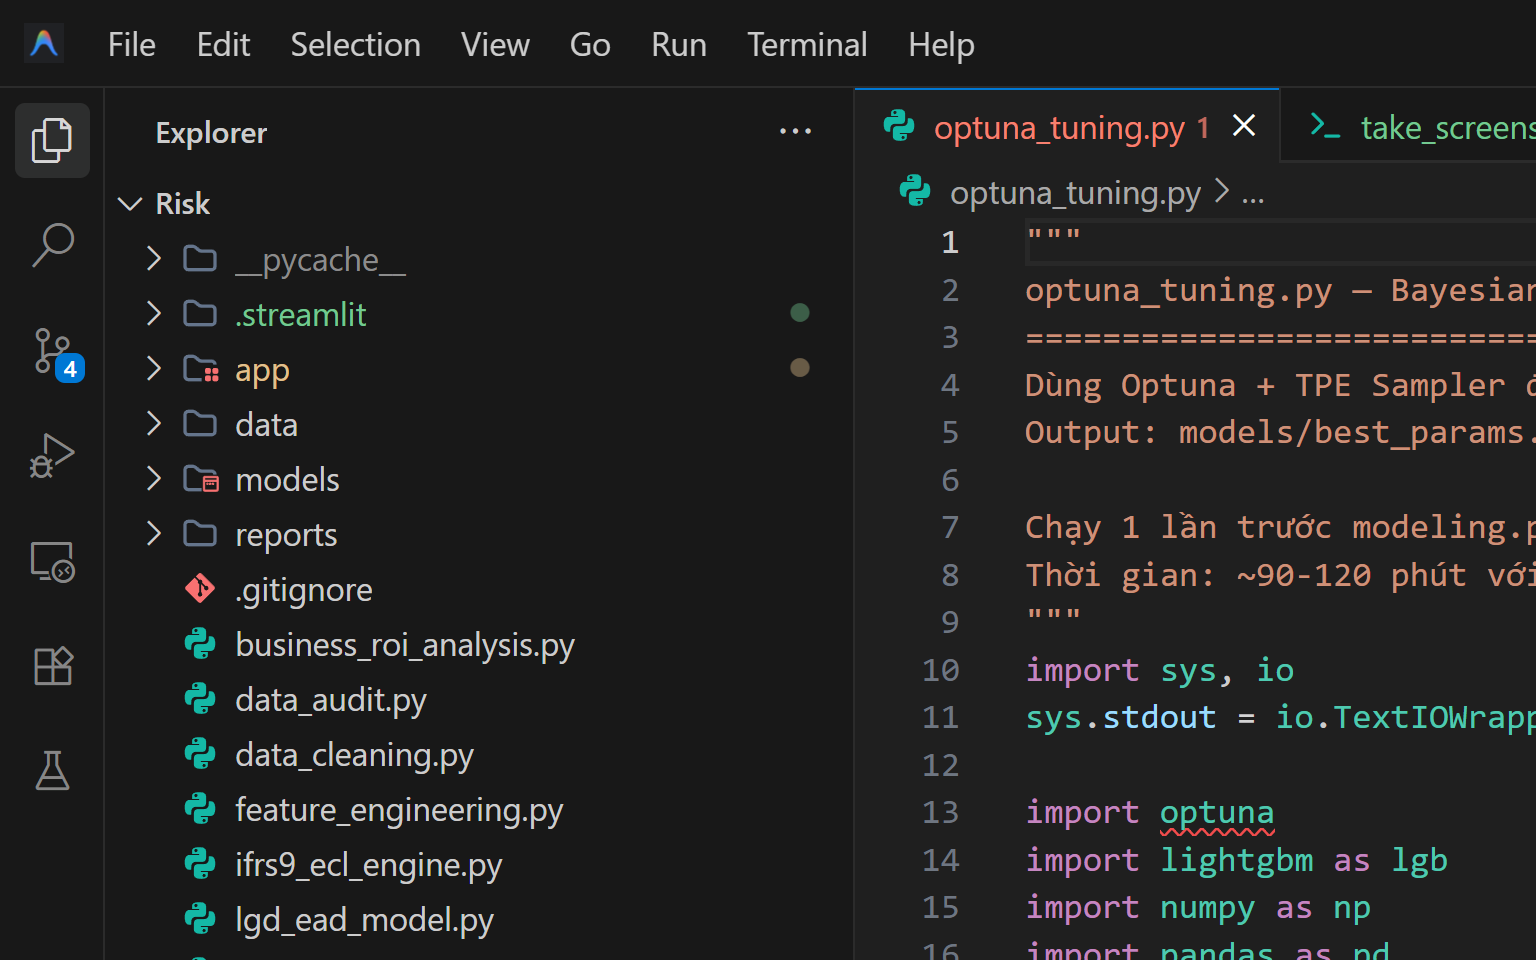
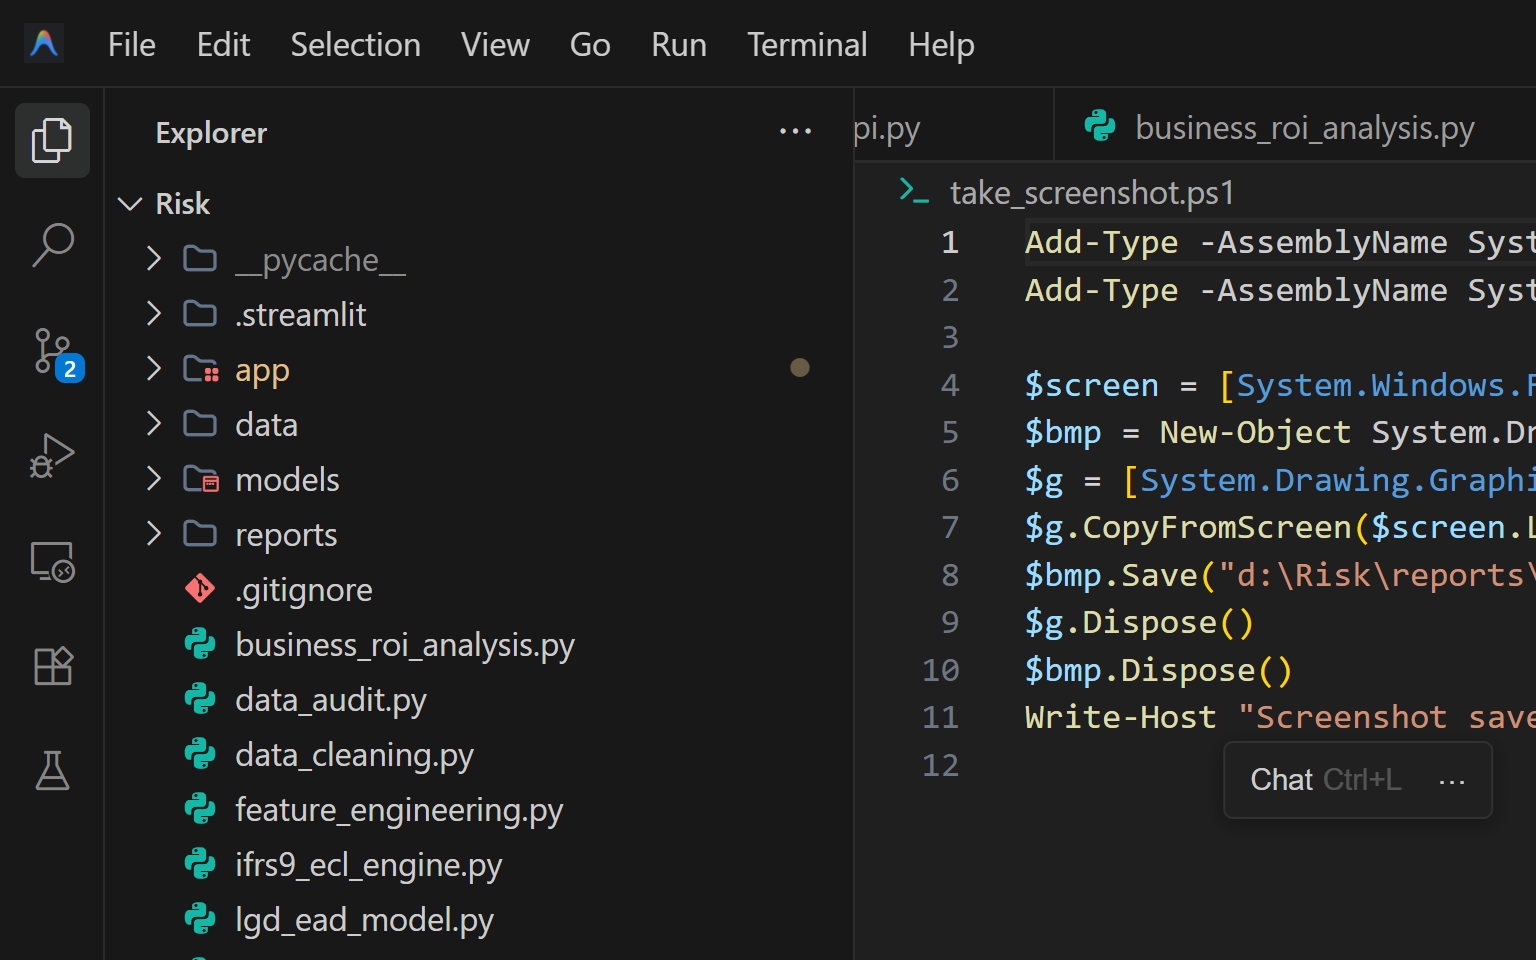
Fix dashboard layout (KPI above filters) and update screenshot

diff --git a/app/streamlit_app.py b/app/streamlit_app.py
@@ -352,10 +352,9 @@ high_risk_ecl_all = df[df['RISK_TIER'] == 'High']['ECL'].sum()
 coverage_all  = ecl_total_all / loan_total_all
 
 # ═══════════════════════════════════════════════════════════════════
-# HEADER ROW PLACEHOLDER — will be rendered after filters
+# HEADER ROW PLACEHOLDER
 # ═══════════════════════════════════════════════════════════════════
-# (header rendered below, after fdf is available)
-
+header_container = st.container()
 
 # ═══════════════════════════════════════════════════════════════════
 # FILTERS
@@ -428,9 +427,9 @@ def delta_badge(val, ref, fmt='.1%', higher_is_bad=True):
     return f'<span style="font-size:10px;color:{color};margin-left:5px">{arrow} {abs(d):{fmt}} vs All</span>'
 
 # ═══════════════════════════════════════════════════════════════════
-# HEADER ROW (rendered here after fdf is ready)
+# HEADER ROW (rendered into placeholder at the top)
 # ═══════════════════════════════════════════════════════════════════
-h0, h1, h2, h3, h4, h5 = st.columns([1.1, 1, 1.1, 1, 0.9, 0.9], gap="small")
+h0, h1, h2, h3, h4, h5 = header_container.columns([1.1, 1, 1.1, 1, 0.9, 0.9], gap="small")
 
 with h0:
     filter_label = f'<div style="font-size:9px;color:#ff9900;margin-top:3px">⚡ FILTERED VIEW</div>' if is_filtered else ''